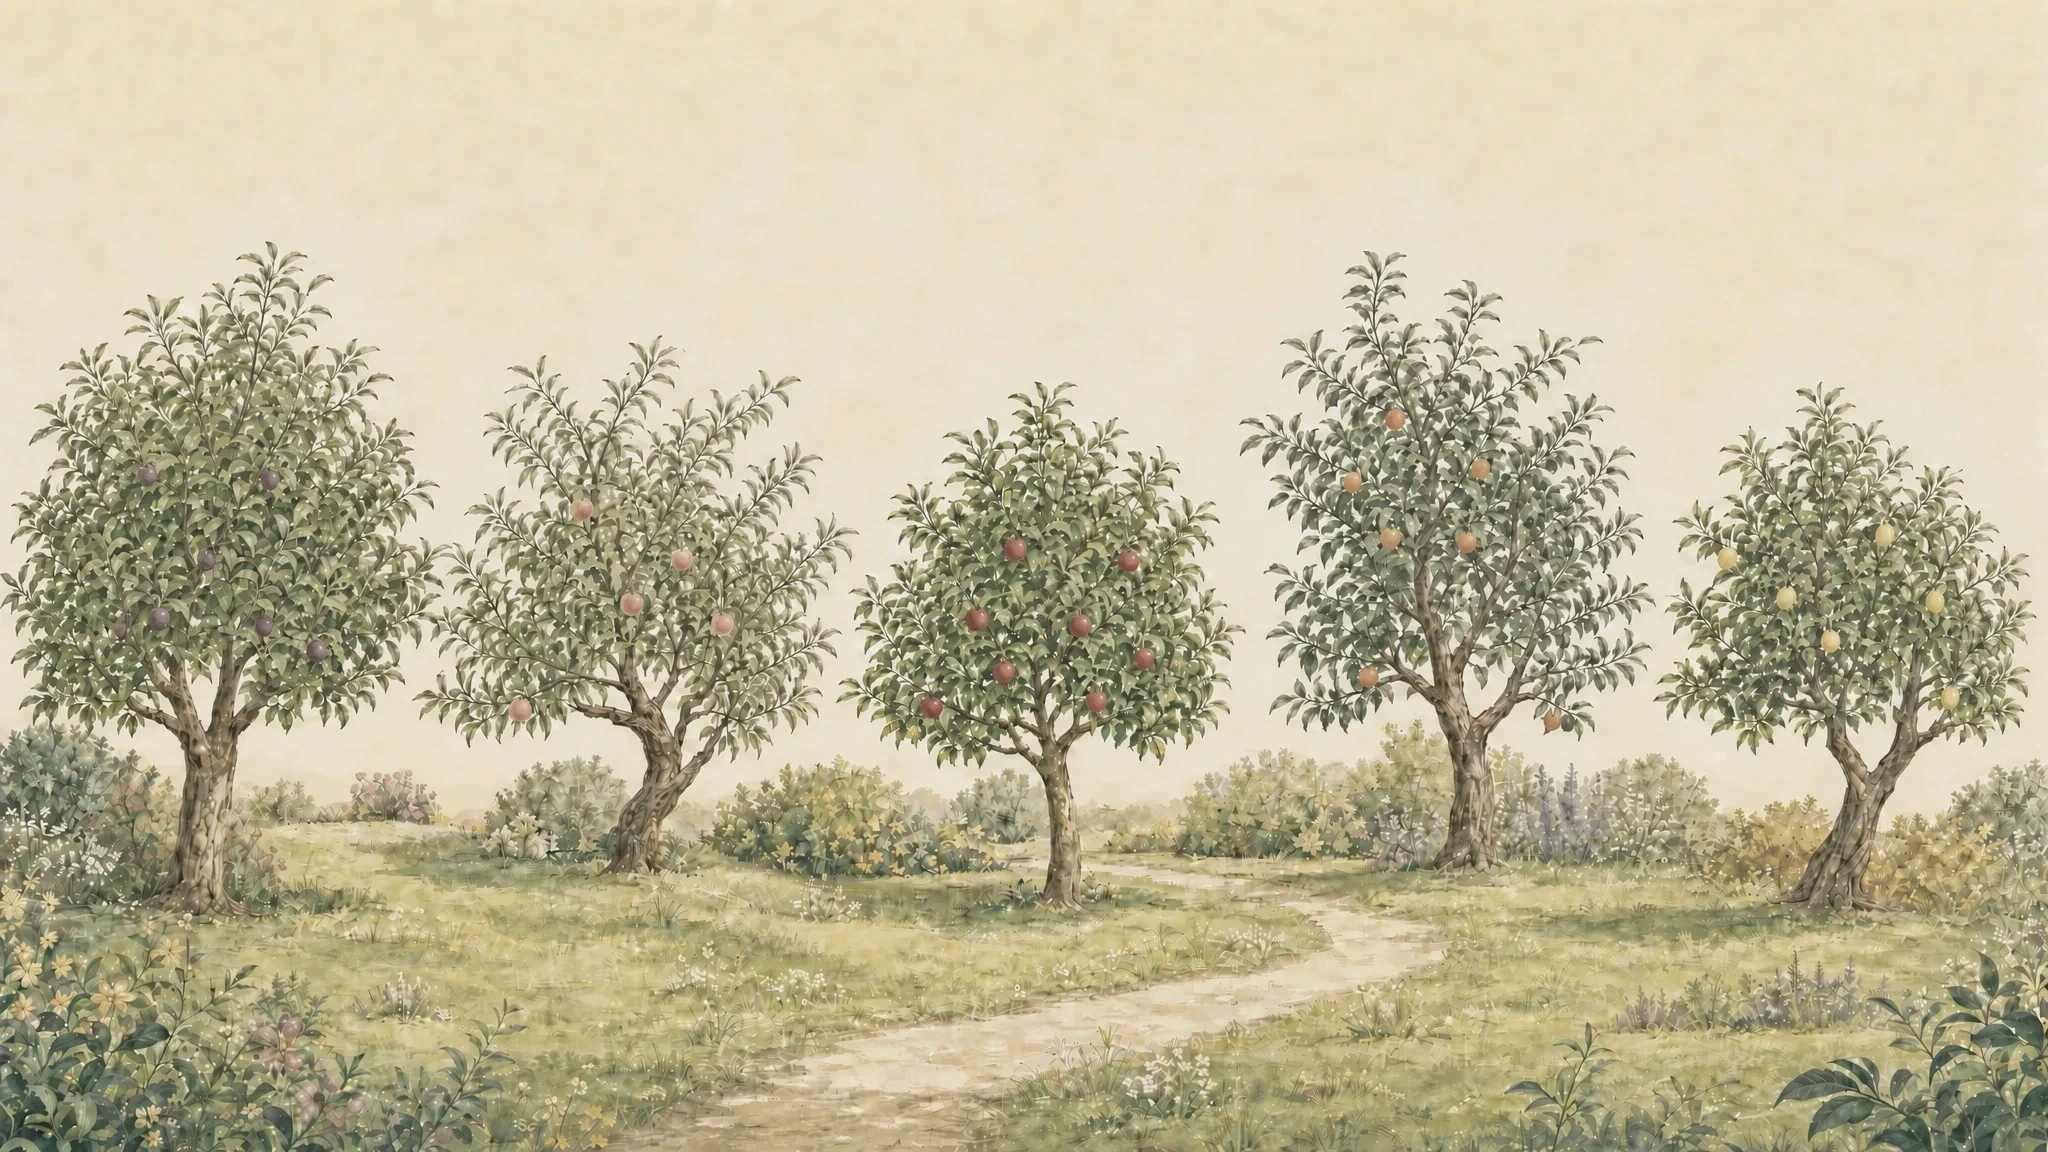
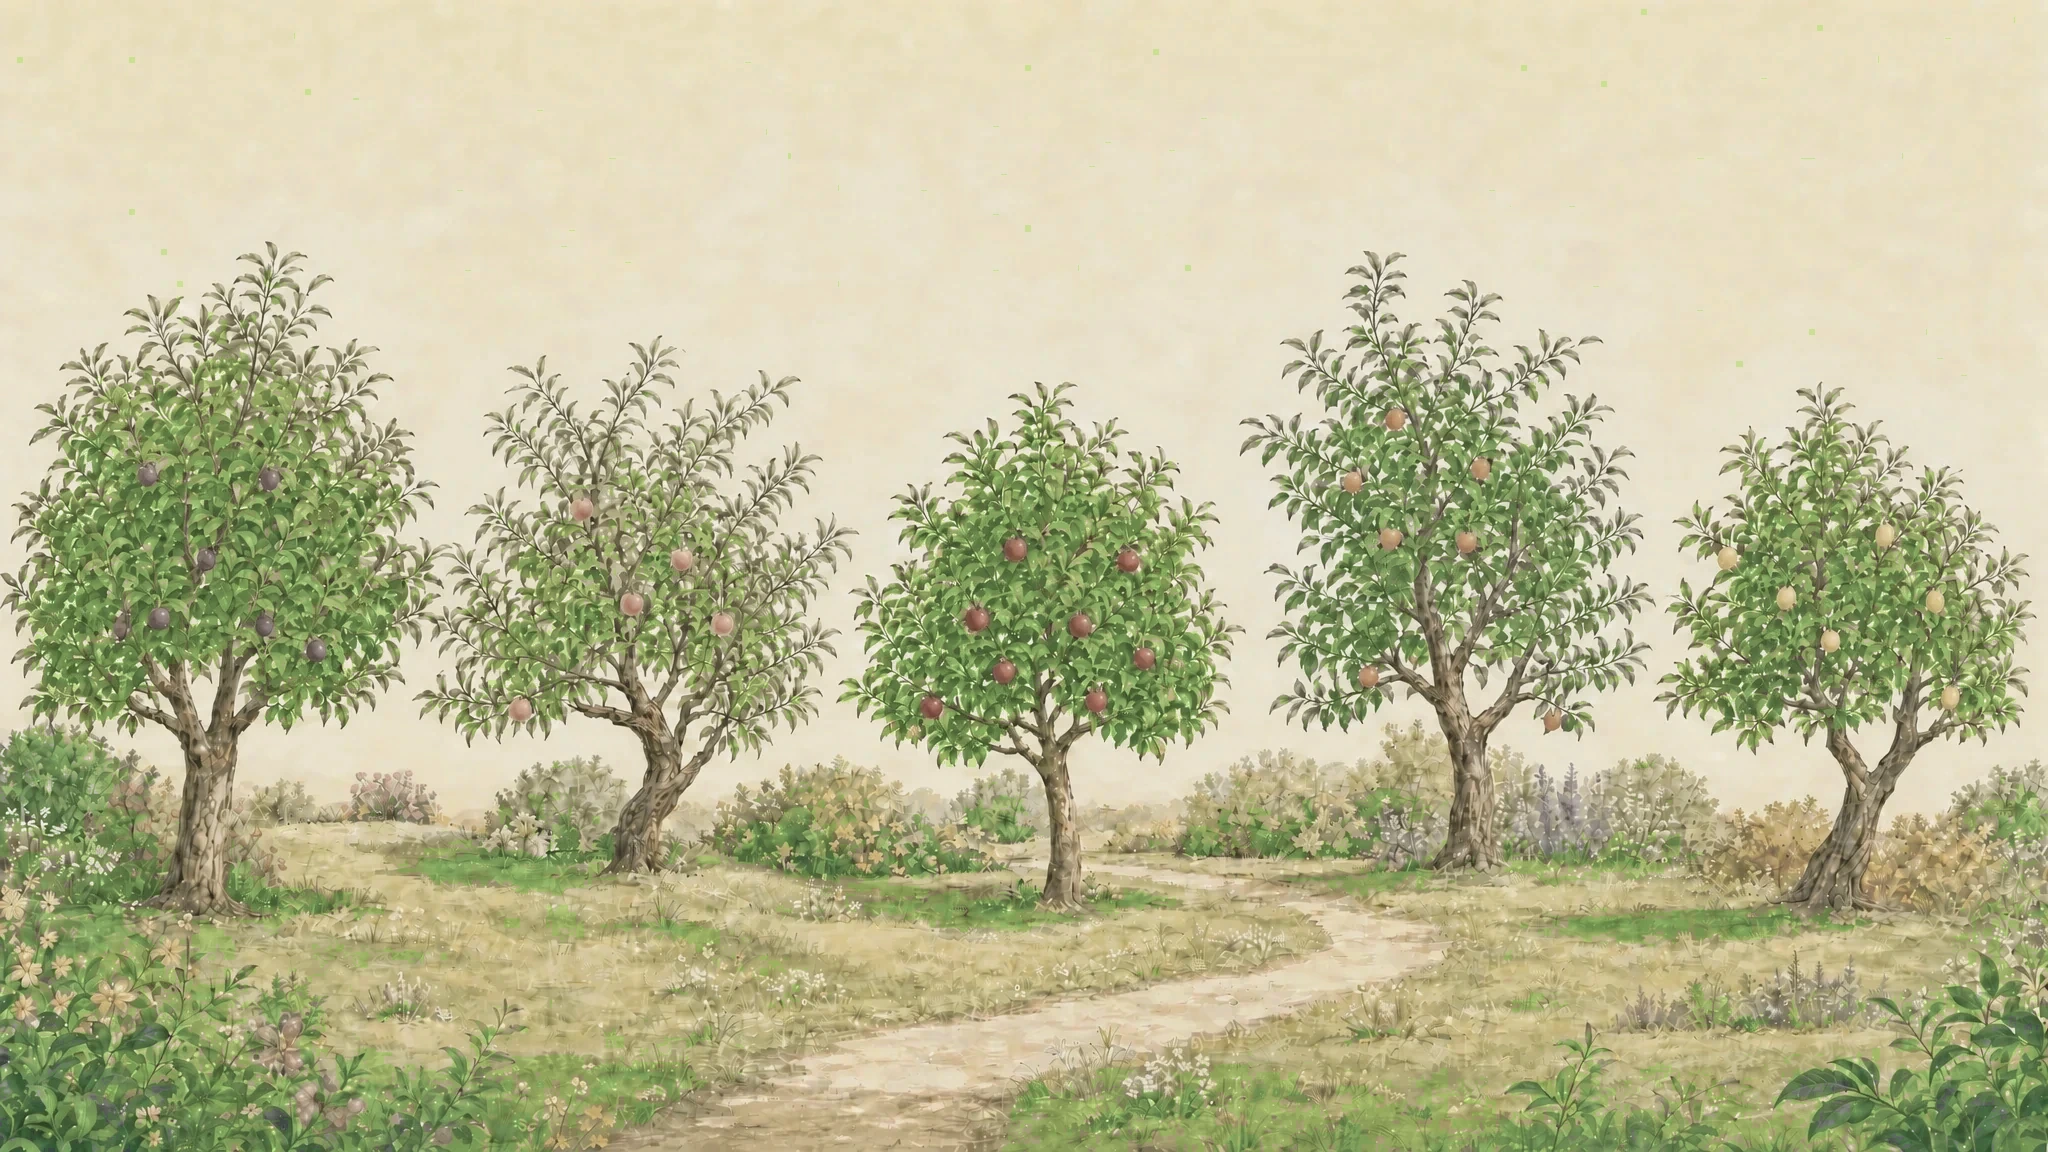
Blend orchard into site background

diff --git a/src/components/desktop/desktop.css b/src/components/desktop/desktop.css
@@ -350,8 +350,8 @@
 @media(max-width:760px){.window-stage .character-about,.window-stage .character-work,.window-stage .character-community,.window-stage .character-books,.window-stage .character-fun,.window-stage .character-links,.window-stage .character-contact{right:56px}}
 /* Soft orchard desktop scene */
 .desktop-shell{background:radial-gradient(circle at 78% 10%,#fff8d8 0,transparent 18%),linear-gradient(180deg,#eef7f1 0%,#f8f7ef 58%,#e7f0e4 100%)}
-.fruit-grove{position:absolute;z-index:0;inset:auto 0 0;height:150px;overflow:hidden;pointer-events:none}
-.backyard-orchard{object-fit:cover;object-position:center 72%;opacity:.84;filter:saturate(.82) contrast(.94)}
+.fruit-grove{position:absolute;z-index:0;inset:auto 0 0;height:150px;overflow:hidden;pointer-events:none;background:transparent;-webkit-mask-image:linear-gradient(to bottom,transparent 0,#000 32%,#000 100%);mask-image:linear-gradient(to bottom,transparent 0,#000 32%,#000 100%)}
+.backyard-orchard{object-fit:cover;object-position:center 72%;opacity:.86;filter:saturate(.95) contrast(.94) brightness(1.02);mix-blend-mode:darken}
 .backyard-sign{position:absolute;z-index:2;left:50%;bottom:18px;display:flex;flex-direction:column;align-items:center;justify-content:center;width:144px;height:58px;translate:-50% 0;border:2px solid #775839;border-radius:50% 50% 10px 10px;background:linear-gradient(180deg,#c79a65,#aa7747);color:#fffaf0;box-shadow:0 5px 0 -2px #6b4d34,0 10px 20px #29453424}
 .backyard-sign::before,.backyard-sign::after{content:"";position:absolute;top:52px;width:8px;height:38px;border-radius:0 0 4px 4px;background:#775839}.backyard-sign::before{left:24px}.backyard-sign::after{right:24px}
 .backyard-sign b{font-family:Georgia,serif;font-size:.9rem;line-height:1}.backyard-sign small{margin-top:.25rem;font-family:var(--font-mono);font-size:.42rem;font-weight:800;letter-spacing:.15em}
